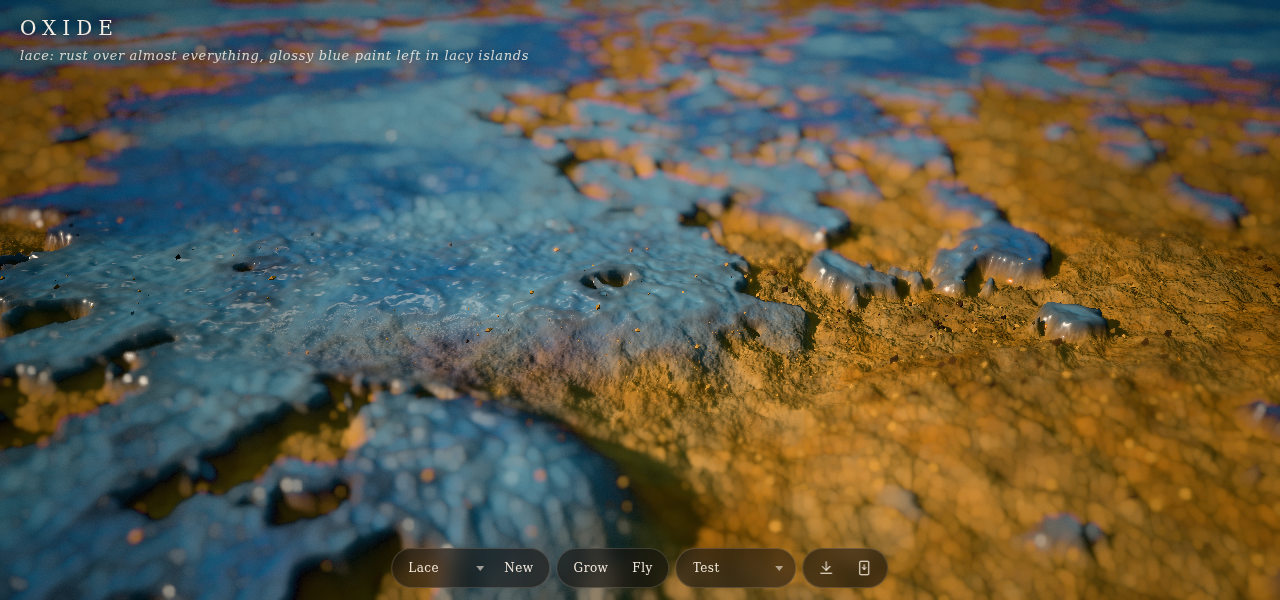
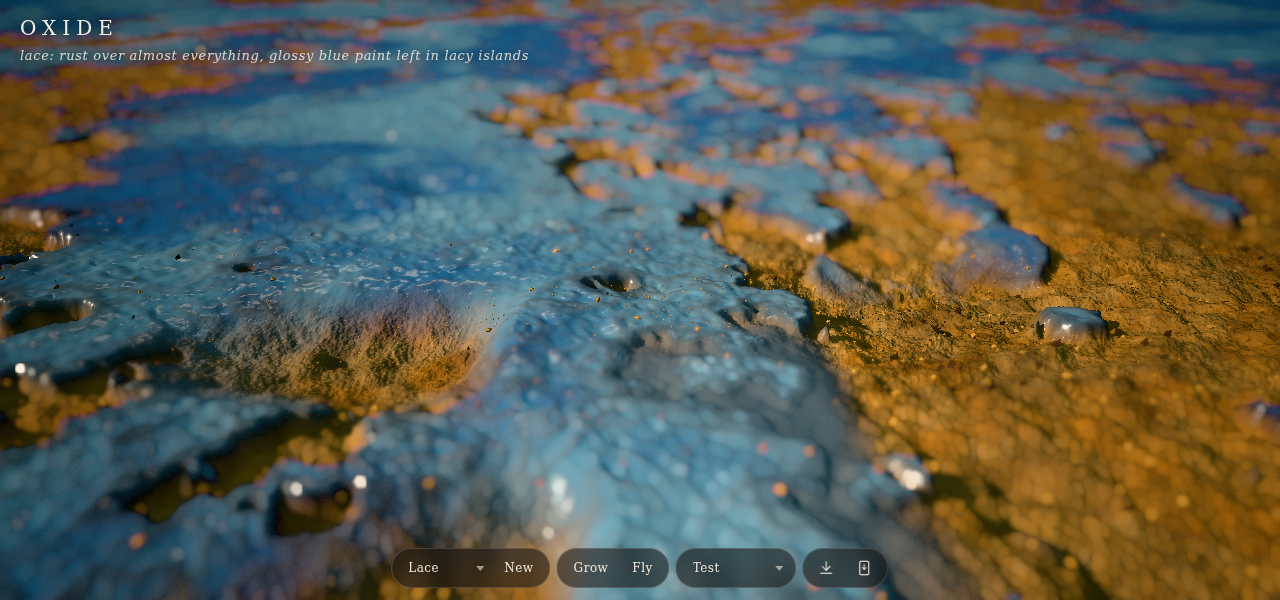
Oxide: Listen's loudest sound grows paint back; ragged, wandering furrows

Changed region(s): [[0.0, 0.36, 1.0, 1.0], [0.125, 0.84, 0.1562, 0.87], [0.0, 0.6, 0.0312, 0.63]]

diff --git a/vibes/oxide/plow.js b/vibes/oxide/plow.js
@@ -1,11 +1,12 @@
-// plow.js - Oxide: Listen. The sound is a plow that corrodes the steel where the camera goes. Its blade lies
+// plow.js - Oxide: Listen. The sound is a plow that works the steel where the camera goes. Its blade lies
 // across the way the camera moves, TW cm wide, on the ground the camera looks at; the spectrum is laid along
-// it mirrored from the middle (the lows in the middle), smoothed across the bands and in time, so the loud
-// bands cut deeper, eat the paint back to rust, and throw up specks of rust dust. What it cuts stays: the
-// trail is kept in a texture SPAN cm square that the raymarch subtracts from the height (surface.js).
+// it mirrored from the middle (the lows in the middle), smoothed across the bands and in time. Middling
+// bands corrode: they cut a furrow, eat the paint back to rust and throw up specks of rust dust. The
+// loudest bands heal: paint grows back over rust and over the furrow. What it does stays: the trail is kept,
+// signed (cut above 0, regrown paint below), in a texture SPAN cm square that surface.js reads.
 import * as THREE from 'three/webgpu';
 import { Fn, instancedArray, instanceIndex, uniform, float, int, vec2, vec3, vec4, ivec2, texture, textureStore, smoothstep, mix, abs, max, clamp, select,
-  hash, dot, length, exp, floor, fract, sin, cos, positionLocal, varying, time, mx_noise_vec3 } from 'three/tsl';
+  hash, dot, length, exp, floor, fract, sin, cos, positionLocal, varying, time, mx_noise_vec3, mx_noise_float, min } from 'three/tsl';
 import { BANDS } from './audio.js';
 
 export const SPAN = 64, DEPTH = 0.035, TW = 1.4; // cm: the trail's square, the deepest cut, the blade's width
@@ -37,10 +38,16 @@ export function makePlow(field, L, { N = 2048, dust = 12000 } = {}) {
     const p = vec2(x.add(0.5), y.add(0.5)).div(N).sub(0.5).mul(SPAN);
     const ab = U.a.sub(U.b), s = clamp(dot(p.sub(U.b), ab).div(max(dot(ab, ab), 1e-8)), 0, 1);
     const d = p.sub(U.b.add(ab.mul(s))), across = dot(d, U.perp), along = length(d.sub(U.perp.mul(across)));
-    const prof = smoothstep(1, 0.75, abs(across).div(TW / 2)).mul(exp(along.div(0.07).pow(2).negate()));
-    const tgt = smoothstep(0.1, 1, level(across)).mul(prof).mul(U.on);
+    // ragged edges and a depth that wanders, from noise on the steel and in time, so no two passes match
+    const n1 = mx_noise_float(vec3(p.mul(5.5), time.mul(0.25))), n2 = mx_noise_float(vec3(p.mul(1.7), time.mul(0.07).add(3)));
+    const half = float(TW / 2).mul(n2.mul(0.25).add(0.9));
+    const prof = smoothstep(1, 0.7, abs(across).add(n1.mul(0.08)).div(half)).mul(exp(along.div(0.07).pow(2).negate())).mul(U.on);
+    const lv = level(across);
+    const heal = smoothstep(0.5, 0.75, lv);                                // the loudest: paint grows back
+    const cor = smoothstep(0.06, 0.4, lv).mul(float(1).sub(heal)).mul(n1.mul(0.35).add(n2.mul(0.25)).add(0.85).clamp(0.3, 1.4));
     const idx = int(y).mul(N).add(int(x)), old = buf.element(idx);
-    const nw = old.add(max(tgt.sub(old), 0).mul(U.k));
+    const cut = old.add(max(cor.mul(prof).sub(old), 0).mul(U.k).mul(select(old.lessThan(0), float(0.12), float(1)))); // new paint is slow to rot again
+    const nw = mix(cut, heal.negate(), heal.mul(prof).mul(U.k).mul(2.5).clamp(0, 1)).clamp(-1, 1.4);
     buf.element(idx).assign(nw);
     textureStore(tex, ivec2(int(x), int(y)), vec4(nw, 0, 0, 0));
   })().compute(R * R);
@@ -55,9 +62,9 @@ export function makePlow(field, L, { N = 2048, dust = 12000 } = {}) {
     const i = instanceIndex, fi = float(i), p = P.element(i), v = V.element(i), dead = p.w.lessThanEqual(0);
     const s1 = hash(fi.mul(1.31).add(U.frame.mul(0.618))), s2 = hash(fi.mul(2.17).add(U.frame.mul(0.414)).add(7)), s3 = hash(fi.mul(5.03).add(U.frame.mul(0.291)).add(13));
     const across = s1.sub(0.5).mul(TW * 0.9), q = U.a.add(U.perp.mul(across)).add(U.fwd.mul(s2.sub(0.5).mul(0.06)));
-    const lv = smoothstep(0.25, 1, level(across));
+    const lr = level(across), lv = smoothstep(0.15, 0.4, lr).mul(smoothstep(0.6, 0.45, lr));
     const born = s3.lessThan(lv.mul(lv).mul(U.on).mul(0.03));
-    const gy = field.sample(field.texH, q, false).x.sub(trailAt(T, q).mul(DEPTH));
+    const gy = field.sample(field.texH, q, false).x.sub(trailAt(T, q).max(0).mul(DEPTH));
     const p0 = vec4(q.x, q.y, gy, s2.mul(1.8).add(0.8));
     const v0 = vec4(U.perp.mul(s1.sub(0.5).mul(0.03)).add(U.fwd.mul(s3.mul(0.02))), s2.mul(0.04).add(0.015), 0);
     const tb = mx_noise_vec3(p.xyz.mul(30).add(vec3(0, 0, time.mul(0.4)))).mul(0.015);
@@ -105,7 +112,7 @@ export function makePlow(field, L, { N = 2048, dust = 12000 } = {}) {
     if (alive > 0 && dt > 0) renderer.compute(dustK);
   };
   T.clear = (renderer) => { renderer.compute(clear); started = false; };
-  T.read = async (renderer) => { const a = new Float32Array(await renderer.getArrayBufferAsync(buf.value)); let mx = 0, n = 0; for (let i = 0; i < a.length; i++) { if (a[i] > mx) mx = a[i]; if (a[i] > 0.1) n++; } return { max: mx, cut: n * (SPAN / N) ** 2 }; };
-  T.dust = dustMesh;
+  T.read = async (renderer) => { const a = new Float32Array(await renderer.getArrayBufferAsync(buf.value)); let mx = 0, mn = 0, n = 0, g = 0; for (let i = 0; i < a.length; i++) { if (a[i] > mx) mx = a[i]; if (a[i] < mn) mn = a[i]; if (a[i] > 0.1) n++; if (a[i] < -0.1) g++; } const c = (SPAN / N) ** 2; return { max: mx, min: mn, cut: n * c, grown: g * c }; };
+  T.dust = dustMesh; T.levels = sm;
   return T;
 }

diff --git a/vibes/oxide/surface.js b/vibes/oxide/surface.js
@@ -40,10 +40,13 @@ const surfAt = (field, S, p, blend, smooth = blend) => {
   if (!S) return { h: H.x, H, s: H.y, a: float(0), m: null };
   const M = field.sample(field.texM, p, blend), te = field.texelAt(p);
   const a = smooth ? trailSmooth(S, p) : trailAt(S, p);
-  // the paint thins away where it cut, rather than its edge moving, so no cliff follows the trail's texels
-  const m0 = coverOf(H.y, te), m2 = m0.mul(float(1).sub(smoothstep(0.1, 0.6, a)));
-  const h = H.x.sub(m0.mul(M.x)).add(m2.mul(M.x)).sub(a.mul(DEPTH));
-  return { h, H, s: H.y, a, m: m2, M };
+  // the paint thins away where it cut, rather than its edge moving, so no cliff follows the trail's texels;
+  // where the loudest sound healed it, paint grows back over the rust, a little thinner than the old coat
+  const c = a.max(0), g = smoothstep(0.05, 0.6, a.negate());
+  const m0 = coverOf(H.y, te), m1 = m0.mul(float(1).sub(smoothstep(0.1, 0.6, c)));
+  const m2 = mix(m1, float(1), g), lift = M.x.max(0.006).mul(mix(float(1), float(0.75), float(1).sub(m0)));
+  const h = H.x.sub(m0.mul(M.x)).add(m1.mul(M.x)).add(m2.sub(m1).mul(lift)).sub(c.mul(DEPTH));
+  return { h, H, s: H.y, a: c, g, m: m2, M };
 };
 
 export function terrainMesh(field, L, S = null) {
@@ -162,7 +165,7 @@ export function terrainMesh(field, L, S = null) {
     };
     const f0 = mix(vec3(0.04), albedo, metal);
     let col = diffuse.add(spec(rough, f0));
-    if (S) col = col.mul(float(1).sub(SF.a.mul(0.25))); // the cut dark with fresh corrosion
+    if (S) col = col.mul(float(1).sub(SF.a.mul(0.25))).add(L.paint2.mul(SF.g.mul(0.06))); // the cut dark with fresh corrosion, new paint a little brighter
     col = col.add(spec(float(0.08), vec3(0.04)).mul(cover.mul(L.clear)));
     // fog, and the dark beyond the steel
     const fogK = exp(t.mul(FOG).pow(2).negate());
@@ -203,7 +206,7 @@ export function grainMesh(field, L, count, S = null) {
     const v = positionLocal.mul(vec3(r2.mul(0.6).add(0.7), r4.mul(0.6).add(0.7), 0.75)).mul(sz);
     const vx = v.x.mul(cos(a)).sub(v.y.mul(sin(a))), vy = v.x.mul(sin(a)).add(v.y.mul(cos(a)));
     const vy2 = vy.mul(cos(b)).sub(v.z.mul(sin(b))), vz = vy.mul(sin(b)).add(v.z.mul(cos(b)));
-    return vec3(q.x.add(vx), q.y.add(vy2), H.x.add(vz).add(sz.mul(0.35)).sub(S ? trailAt(S, q).mul(DEPTH) : 0));
+    return vec3(q.x.add(vx), q.y.add(vy2), H.x.add(vz).add(sz.mul(0.35)).sub(S ? trailAt(S, q).max(0).mul(DEPTH) : 0));
   })();
   const col = mix(L.powderCol.mul(r3.mul(0.6).add(0.6)), mix(L.rE, L.rD, r3), select(isClump, float(1), smoothstep(0.7, 1.0, r4)));
   m.colorNode = varying(col, 'vGrainCol');
@@ -222,7 +225,7 @@ export function dropMesh(field, L, count, S = null) {
   const r1 = hash(i.mul(4.7).add(11)), r2 = hash(i.mul(6.3).add(12));
   const keep = r1.lessThan(L.drops).and(M.z.lessThan(0.4));
   const sz = select(keep, r2.mul(r2).mul(0.05).add(0.008), float(0));
-  m.positionNode = vec3(q.x.add(positionLocal.x.mul(sz)), q.y.add(positionLocal.y.mul(sz)), H.x.add(positionLocal.z.mul(sz).mul(0.62)).sub(sz.mul(0.04)).sub(S ? trailAt(S, q).mul(DEPTH) : 0));
+  m.positionNode = vec3(q.x.add(positionLocal.x.mul(sz)), q.y.add(positionLocal.y.mul(sz)), H.x.add(positionLocal.z.mul(sz).mul(0.62)).sub(sz.mul(0.04)).sub(S ? trailAt(S, q).max(0).mul(DEPTH) : 0));
   // water on rust picks up its colour; on paint it stays clear
   m.colorNode = varying(mix(vec3(1, 0.62, 0.32), vec3(0.94, 0.98, 1), M.x), 'vDropCol');
   const mesh = new THREE.Mesh(g, m);

diff --git a/vibes/oxide/smoke.js b/vibes/oxide/smoke.js
@@ -94,6 +94,7 @@ const VIEWS = [
       await shot('listen'); const er = errors();
       check('listen: renders with no errors', er.length === 0, er.slice(0, 3).join(' | ').slice(0, 600));
       check('listen: the plow cuts a furrow where the camera goes', tr.max > 0.2 && tr.cut > 0.3 && tr.cut < 20, `deepest ${tr.max.toFixed(2)}, ${tr.cut.toFixed(2)} cm2 cut`);
+      check('listen: the loudest parts grow paint back', tr.min < -0.2 && tr.grown > 0.05, `${tr.grown.toFixed(2)} cm2 regrown, ${tr.min.toFixed(2)} at most`);
       check('listen: the camera still flies over it', o.y > o.g + 0.05 && Math.hypot(o.x - 0.35, o.z - 0.6) > 0.8, `at ${o.x.toFixed(2)}, ${o.z.toFixed(2)}, ${(o.y - o.g).toFixed(2)} cm up`);
       await E(`__oxide.view([${o.x}, ${o.g + 0.55}, ${o.z}, ${o.x}, ${o.g}, ${o.z - 0.6}])`); // looking back down the furrow
       await shot('listen_trail');

diff --git a/vibes/oxide/index.html b/vibes/oxide/index.html
@@ -50,7 +50,7 @@
 <canvas id="gl"></canvas>
 <div id="status">growing rust&hellip;</div>
 <div id="title">OXIDE<small id="name"></small></div>
-<div id="hint">Drag to look around, tap to focus. Leave it and it glides over the surface on its own. Listen makes the sound a plow that corrodes the steel where you go.</div>
+<div id="hint">Drag to look around, tap to focus. Leave it and it glides over the surface on its own. Listen makes the sound a plow where you go: it corrodes the steel, and the loudest parts grow paint back.</div>
 <div id="bar">
   <div class="pill"><select id="scene" aria-label="Scene"></select><button id="new" title="New piece of this scene (n)">New</button></div>
   <div class="pill"><button id="grow" title="Let the rust grow (g)">Grow</button><button id="drift" title="Fly over the surface when idle (d)">Fly</button></div>

diff --git a/README.md b/README.md
@@ -18,7 +18,7 @@
 - [Membrane](vibes/membrane/) - Peel the membrane off the inside of a broken eggshell without tearing it: a GPU cloth in three.js TSL compute shaders (position-based dynamics, Jacobi, 8 substeps) glued to the shell, which lets go by Kendall's peel angle, so peeling off the wall or folding back works and dragging along it or yanking tears. Links neck and creep before they break, so tears run and part softly. Raw-egg wet: a viscous sheet, a shell film that beads and dries, threads of egg white that stretch, thin and snap. Pick the shell up and turn it (a second finger, or the arrow keys, while you peel), a time / peeled / intact HUD with a 50 mm tear limit, score and stars, synthesised squelches and plips. A second game, Yolk: pinch a raw yolk by its skin (a closed cloth around an incompressible liquid) and carry it to a bowl, with a grip you set: too light and it slips out, too tight and it bursts. A small oiled oak board on a plinth in a window-lit studio with godrays and soft mullion shadows, offline PWA
 - [Caustic](vibes/caustic/) - Light off water, after the Wallace sets in Blade Runner 2049: the wide concrete corridor with its stairs and receding portal frames, Wallace's office with slow gold ribbons over warm concrete, and the hall of water with its black flooded floor, platform, stepping stones and a swinging hanging light. Lit as Deakins did it, by lamps bounced off rippling water: each lamp has its own trough or tank placed in the set, and the rays its waves bend are traced out to the walls each frame (fanning out of the water, soft near it and sharp far away), carried by a shadowed spot light at the light's apparent source, SSGI with TRAA plus a virtual bounce light per beam, raymarched haze in the beams, reflected water, anamorphic streaks, an amber grade, 2.39:1 bars, a slow camera tour and a drone. three.js r187 WebGPU + TSL, offline PWA
 - [Hollow](vibes/hollow/) - Generated wooden sculptures hollowed by smooth carving: an SDF vessel, pebble, totem, ring or lobed cluster pierced by tunnels, scoops, grooves and gyroid lattices with filleted edges, surface-net meshing in a worker with baked occlusion, solid procedural grain in TSL (walnut, oak, cherry, curly maple, olive, zebrano, padauk, ash, spalted beech; oil, wax, lacquer, bare) so rings run through the cuts. A gallery plinth under skylight, morning window, golden hour or studio light with shadows, godrays and dust motes in the beam through the window frame, GTAO and bloom, an optional glass case, and generated music played on wooden bars. three.js r187 WebGPU + TSL, offline PWA
-- [Oxide](vibes/oxide/) - Close-up landscapes of rust on old turquoise paint, as if through a macro lens: tide lines where the rust front stood, paint crazed into lifted plates, orange powder at the paint's edge, glossy paint in lacy islands, with craters, crust and regions that change as you go. Built by TSL compute in nested levels that follow the camera and raymarched a ray per pixel, so the detail follows the screen and the steel runs to the horizon; soft sun shadows, a dark room in the reflections, grains and drops of water, depth of field. Leave it and the camera glides over the surface like a lunar orbiter; Listen turns the sound into a plow that corrodes the steel where the camera flies: the louder, the more paint thins to rust and the deeper the furrow, with specks of rust dust. three.js r187 WebGPU + TSL, offline PWA
+- [Oxide](vibes/oxide/) - Close-up landscapes of rust on old turquoise paint, as if through a macro lens: tide lines where the rust front stood, paint crazed into lifted plates, orange powder at the paint's edge, glossy paint in lacy islands, with craters, crust and regions that change as you go. Built by TSL compute in nested levels that follow the camera and raymarched a ray per pixel, so the detail follows the screen and the steel runs to the horizon; soft sun shadows, a dark room in the reflections, grains and drops of water, depth of field. Leave it and the camera glides over the surface like a lunar orbiter; Listen turns the sound into a plow that works the steel where the camera flies: middling sound thins the paint to rust in a soft furrow with specks of rust dust, the loudest grows paint back over it. three.js r187 WebGPU + TSL, offline PWA
 - [Sorairo](vibes/sorairo/) - Anime / Makoto Shinkai-style hillside in three.js: a lone procedural tree (branch tubes + sphere-normal leaf-cluster billboards, summer / sakura / autumn) dropping leaves or petals, 170k wind-blown grass blades with rolling gust sheen and wildflowers, towering painted cumulus, cloud shadows, utility poles with sagging wires, five times of day from noon to a magic-hour sunset and a firefly night, played as a day-cycle time-lapse or a four-seasons year (snow melt, cherry blossom, summer, the autumn turn, shedding, snowfall). Post chain: light shafts through the canopy, bloom, lens flare, saturation-preserving tone map, and an anisotropic Kuwahara filter for a gouache / oil-paint look with canvas texture
 - [Line Rider 3D](vibes/line-rider-3d/) - Line Rider in 3D: draw on a sketch plane you can turn (or turn while drawing) and every stroke becomes a ribbon track, 2D Line Rider per plane with corkscrews, banked top-down turns, line-end snapping and 3D bridges between ends. Verlet sledder with breakable bindings (bosh), one-sided ribbons, runner grip, accelerate and scenery lines, 2.5D side view by default (2D Line Rider with depth, camera swings around corners while riding) or free 3D, recorded timeline, demo track ridden crash-free in tests
 - [Squash Court](vibes/squash-court/) - Finds a squash court in a photo, video or live camera from its painted lines and recovers the camera: position in metres, view direction, focal length, lens distortion. Thin-line detector for any line colour on wood, dark floors or glass, a seeded search over where squash cameras stand, Gauss-Newton ICP against the WSF court model, frame-to-frame tracking for video. Click to measure points on the floor or walls in metres, rectified floor and front wall, 3D view with the camera frustum, camera JSON export (K, R, P, homographies). Plain JS in a worker, no deps

diff --git a/vibes/oxide/README.md b/vibes/oxide/README.md
@@ -14,7 +14,7 @@ Codevember: Rust, a third take. Close-up landscapes of rust on old turquoise pai
 - **Scene** (`p`, arrow keys): Tide lines, Plates, Powder, Lace. **New** (`n`) makes another piece of the same scene.
 - **Grow** (`g`) lets the rust front move into the paint.
 - **Fly** (`d`): when you leave the camera alone it glides over the surface at a slow, steady height, turning and banking a little. Drag to look around (that takes the camera back), tap to focus there.
-- **Listen** (`l`): the built-in track, the microphone, or an audio file (or drop one on the page) makes the sound a plow that corrodes the steel where the camera goes. Its blade lies across the way the camera moves, 1.4 cm wide, with the spectrum along it mirrored from the middle and smoothed across the bands and in time; the louder bands thin the paint away to rust and sink the steel a little deeper, with specks of rust dust. The furrow stays until the scene changes, so leaving it to fly draws a corroded track of the song.
+- **Listen** (`l`): the built-in track, the microphone, or an audio file (or drop one on the page) makes the sound a plow that works the steel where the camera goes. Its blade lies across the way the camera moves, about 1.4 cm wide, with the spectrum along it mirrored from the middle and smoothed across the bands and in time. Middling bands corrode: the paint thins to rust and the steel sinks into a soft furrow, with specks of rust dust. The loudest bands heal: paint grows back over the rust and over the furrow, and new paint is slow to rot again. Noise on the steel and in time makes the edges ragged and the depth wander. What it does stays until the scene changes, so leaving it to fly draws a track of the song in rust and paint.
 - Save a PNG with `s`; `h` hides the interface.
 
 URL options: `scene=tide|plates|powder|lace`, `seed=`, `grow`, `still` (no flight), `res=` (field size in texels; 768, or 512 on phones), `dpr=` (pixel ratio, 1 by default), `scale=` (fixed render scale; it follows the frame rate otherwise), `nodof`.
@@ -25,7 +25,7 @@ URL options: `scene=tide|plates|powder|lace`, `seed=`, `grow`, `still` (no fligh
   - The arrival pass stores when rust reaches each point: a domain-warped fractal noise, lace from a finer one, cracks of a cell network where the paint has crazed, corrosion pits as craters, all varied by regions about 10 cm across (more or less rust, crazing, lace, crust, a purple or ochre tint, waviness of the sheet).
   - The shape pass turns the distance to the front into relief and materials: paint that lifts and curls where rust undercuts it, plates dished between cracks, blisters, banded tide lines, crust and pits, powder at the front and dark clumps behind it.
 - **Raymarch** (`surface.js`): a fullscreen pass marches each pixel's ray through the height textures (steps sized by height and distance, then bisection), shades it by hand (paint in two tones with chalky weathering, banded and mottled rust, glints, GGX sun with soft shadows marched toward it, a dark room in the reflections, clearcoat, cavities, fog) and writes depth, so instanced grains of powder, crumbs and drops of water sit in it and the depth of field reads it.
-- **Listen** (`audio.js`, `plow.js`): the spectrum (64 bands, a gain for each band, smoothed) sets the blade's profile each frame. A compute pass stamps the blade, swept from where it was to where it is, into a trail 64 cm square (2048 texels, 0.3 mm each), easing it toward the deeper of the two, and the raymarch subtracts the trail from the height (read bilinearly while marching and as a cubic B-spline for the normals) and thins the paint over it. Specks of dust are particles in a second compute pass, born on the loud parts of the blade.
+- **Listen** (`audio.js`, `plow.js`): the spectrum (64 bands, a gain for each band, smoothed) sets the blade's profile each frame. A compute pass stamps the blade, swept from where it was to where it is, into a signed trail 64 cm square (2048 texels, 0.3 mm each): above 0 it is cut, eased toward the deeper of the two; below 0 paint has grown back, and the raymarch subtracts the trail from the height (read bilinearly while marching and as a cubic B-spline for the normals) thins the paint over the cut and lays new paint over the regrown parts. Specks of dust are particles in a second compute pass, born on the loud parts of the blade.
 - **Speed**: the scene renders at a scale that drops when frames run slower than 40 fps and rises above 57; the grade and film grain go on top at full size.
 
 `node smoke.js` checks each scene renders with paint and rust in frame, the flight glides and stays above the ground, Listen's plow cuts a furrow where the camera flies, and growing takes paint (WebGPU on SwiftShader; `SHOTS=1` refreshes the screenshots here).

diff --git a/CHANGELOG.md b/CHANGELOG.md
@@ -1,7 +1,7 @@
 # Logs
 
 13 Nov 2026
-- Oxide: Listen is now a plow (replacing the rings, the waveform and the separate Waveform page): the spectrum, smoothed across bands and in time, is a blade across the way the camera moves, and a TSL compute pass stamps it into a 64 cm trail that stays, so the louder bands thin the paint to rust and sink a soft furrow where the camera flies; the raymarch subtracts the trail (B-spline for normals), grains and drops sink with it, and specks of rust dust rise from the loud parts. Per-band gain and smoothing in audio.js
+- Oxide: Listen is now a plow (replacing the rings, the waveform and the separate Waveform page): the spectrum, smoothed across bands and in time, is a blade across the way the camera moves, and a TSL compute pass stamps it into a signed 64 cm trail that stays. Middling bands thin the paint to rust and sink a soft furrow with specks of rust dust; the loudest grow paint back over rust and furrow; noise makes the edges ragged and the depth wander. The raymarch reads the trail (B-spline for normals), and grains and drops sink with it. Per-band gain and smoothing in audio.js
 
 12 Nov 2026
 - Add [Oxide](vibes/oxide/) (Codevember: Rust, a third take): close-up landscapes of rust on old turquoise paint (tide lines, crazed plates, powder, lace). Two TSL compute passes (arrival, then shape) build the relief and materials in a five-level clipmap that follows the camera (1.6 to 25.6 cm, 768 texels a side), varied by 10 cm regions (rust amount, crazing, lace, crust, purple or ochre tint, craters with rims, waviness); a fullscreen raymarch (stepped by height and distance, bisection) shades it by hand with soft sun shadows, a dark room in the reflections, clearcoat and fog, and writes depth for instanced grains, crumbs and drops and the depth of field. The camera glides over it like a lunar orbiter when left alone, reading the ground ahead back from the GPU; the render scale follows the frame rate. Listen moves the paint's edges to the built-in track, the microphone or a file. `node smoke.js` (33 checks, WebGPU on SwiftShader)
